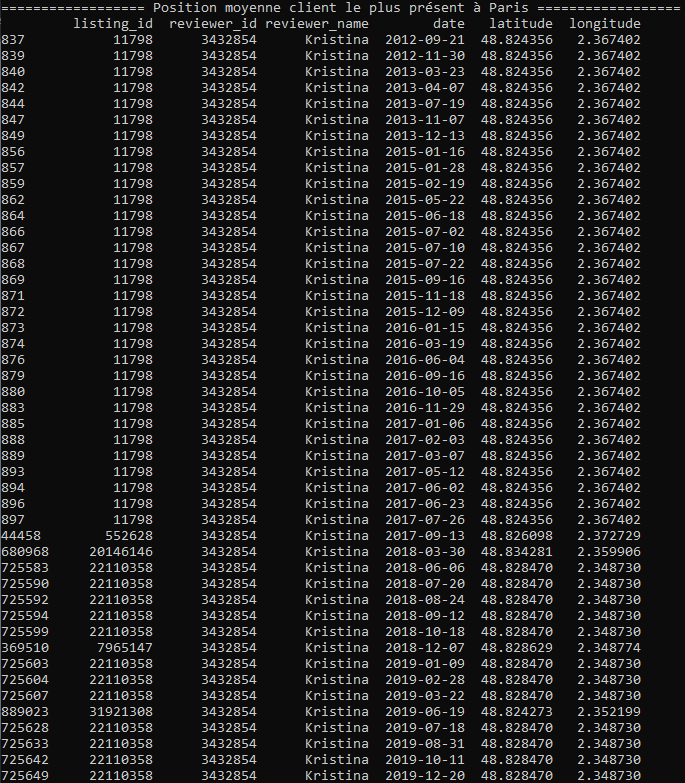
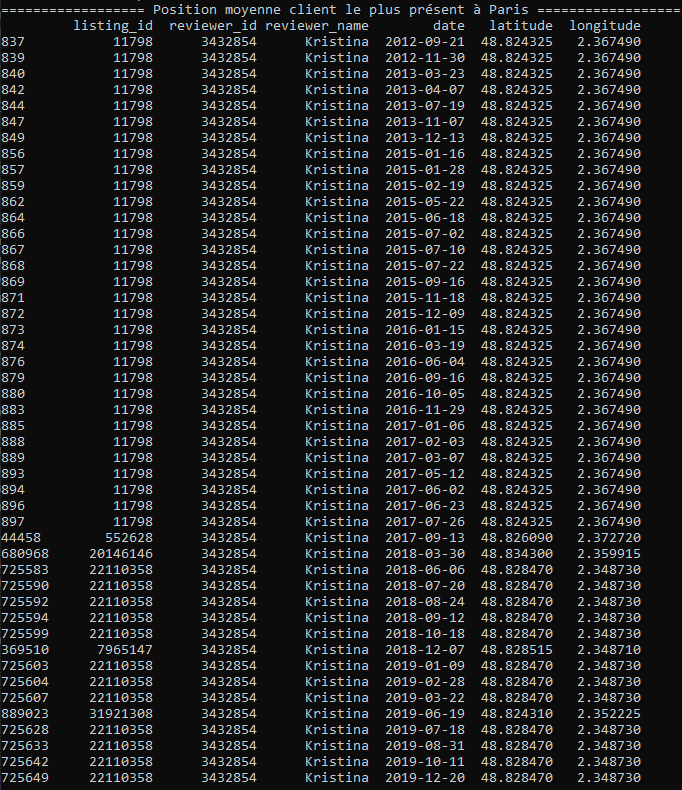
correction de la moyenne

diff --git a/airbnb_inside/airbnb.py b/airbnb_inside/airbnb.py
@@ -233,6 +233,11 @@ def calculMoyennePosId(listDataHistoFull):
   cpt = 0
   # listDataHistoFull['AvgLat'] = listDataHistoFull.groupby('id')['latitude'].transform('mean')
   # listDataHistoFull['AvgLong'] = listDataHistoFull.groupby('id')['longitude'].transform('mean')
+  
+  print("================== drop dupli ====================")
+  print("nb rows before drop : "+str(len(listDataHistoFull.index)))
+  listDataHistoFull=listDataHistoFull.drop_duplicates(subset=['id','latitude','longitude'])
+  print("nb rows after drop : "+str(len(listDataHistoFull.index)))
   listDataHistoFull=listDataHistoFull.groupby('id').mean().reset_index()
   return listDataHistoFull
 
